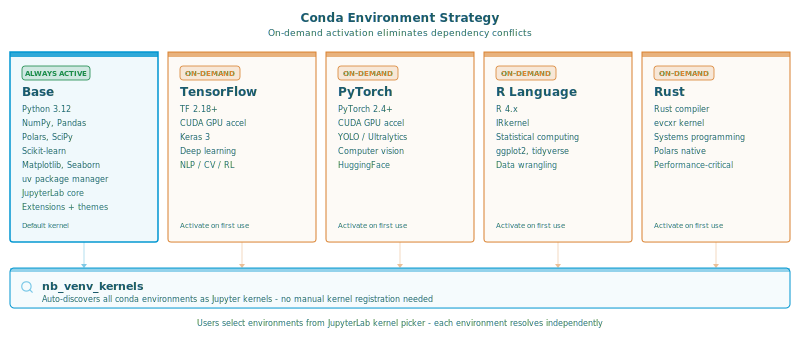
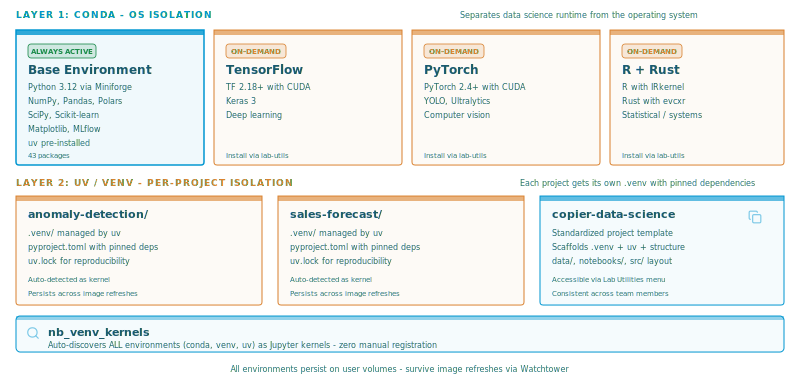
docs: rewrite environment strategy - conda for OS isolation, uv for projects
- rewrite 07 SVG from "conda environments" to two-layer strategy:
  Layer 1 (conda) separates data science from OS, Layer 2 (uv/venv)
  provides per-project isolation via copier-data-science template
- update article environment section: conda as primary runtime isolation,
  uv-based local venvs promoted as standard for projects, copier template
  scaffolds .venv + pyproject.toml + uv.lock structure
- nb_venv_kernels as the glue discovering all env types automatically

Changed region(s): [[0.0, 0.0294, 1.0, 1.0]]

diff --git a/docs/medium/self-service-jupyterhub.md b/docs/medium/self-service-jupyterhub.md
@@ -79,15 +79,17 @@ When a team member logs in and starts their server, they land in a full data sci
 
 The 40+ enhancement categories span the entire workflow.
 
-**Environment management.** This is where the platform departs most dramatically from vanilla JupyterLab. The base conda environment ships with NumPy, Pandas, Polars, SciPy, Scikit-learn, and Matplotlib - 43 packages ready on first login. For deep learning, TensorFlow and PyTorch live in separate on-demand conda environments that avoid dependency conflicts between frameworks. Install them through the Lab Utilities menu.
+**Environment management.** This is where the platform departs most dramatically from vanilla JupyterLab. The strategy has two layers - and they work together.
 
-But the real game-changer is how environments are discovered and managed. A custom extension called `nb_venv_kernels` scans the entire system for conda, venv, and uv environments and registers each as a Jupyter kernel automatically. Create an environment anywhere - via conda, uv, or plain venv - and it appears as a selectable kernel in JupyterLab within seconds. No manual kernel registration, no JSON spec files, no restarts. JupyterLab's built-in plugins for conda and pip management let users install packages directly from the UI. The launcher integrates environment selection with project navigation, so switching between projects and their associated environments is seamless.
+The first layer is **conda** - it separates the data science runtime from the operating system entirely. The base conda environment ships with NumPy, Pandas, Polars, SciPy, Scikit-learn, and Matplotlib - 43 packages ready on first login. For deep learning, TensorFlow and PyTorch live in separate on-demand conda environments that avoid dependency conflicts between frameworks. This keeps the OS clean and the data science stack isolated.
 
-Local environments persist in user volumes between server image refreshes. When the admin pushes a new image via Watchtower, user-created conda environments and venv directories survive because they live on persistent volumes. The base image gets updated, user customizations stay intact.
+The second layer is **uv-based local virtual environments** for individual projects. The platform promotes modern Python packaging through its [copier-data-science](https://github.com/stellarshenson/copier-data-science) project template - accessible via Lab Utilities - which scaffolds new projects with a standardized structure including a local `.venv` managed by `uv`. Each project gets its own isolated environment with pinned dependencies, reproducible across team members. `uv` is pre-installed and dramatically faster than pip for environment creation and package installation.
 
-For new projects, the platform includes a standardized [copier-data-science](https://github.com/stellarshenson/copier-data-science) template accessible through Lab Utilities. It scaffolds a complete data science project structure - data directories, notebook directories, source code layout, configuration files - giving teams a consistent starting point instead of each person inventing their own folder structure.
+The glue that makes this seamless is `nb_venv_kernels` - a custom extension that scans the entire system for conda, venv, and uv environments and registers each as a Jupyter kernel automatically. Create an environment anywhere and it appears as a selectable kernel in JupyterLab within seconds. No manual kernel registration, no JSON spec files, no restarts. The launcher integrates environment selection with project navigation, so switching between projects and their associated environments is seamless. JupyterLab's built-in plugins for conda and pip management let users install packages directly from the UI.
 
-![Conda Environments](images/07-conda-environments.svg)
+All local environments persist in user volumes between server image refreshes. When the admin pushes a new image via Watchtower, user-created conda environments, uv venvs, and project directories survive because they live on persistent volumes. The base image gets updated, user customizations stay intact.
+
+![Environment Strategy](images/07-conda-environments.svg)
 
 **Integrated services.** Every user gets their own local instances of MLflow, TensorBoard, Resources Monitor, and Optuna Dashboard running inside their container. Not shared services - personal ones. This eliminates conflicts entirely. MLflow tracks experiments to a per-user SQLite database with local artifact storage. TensorBoard reads from the user's own log directory. The resources monitor shows that user's container stats. Each service opens as a tab inside JupyterLab through the launcher, so users never leave the notebook interface. All services route through a per-user Traefik instance at a single HTTPS endpoint with path-based routing. No port conflicts, no configuration, no shared state.
 